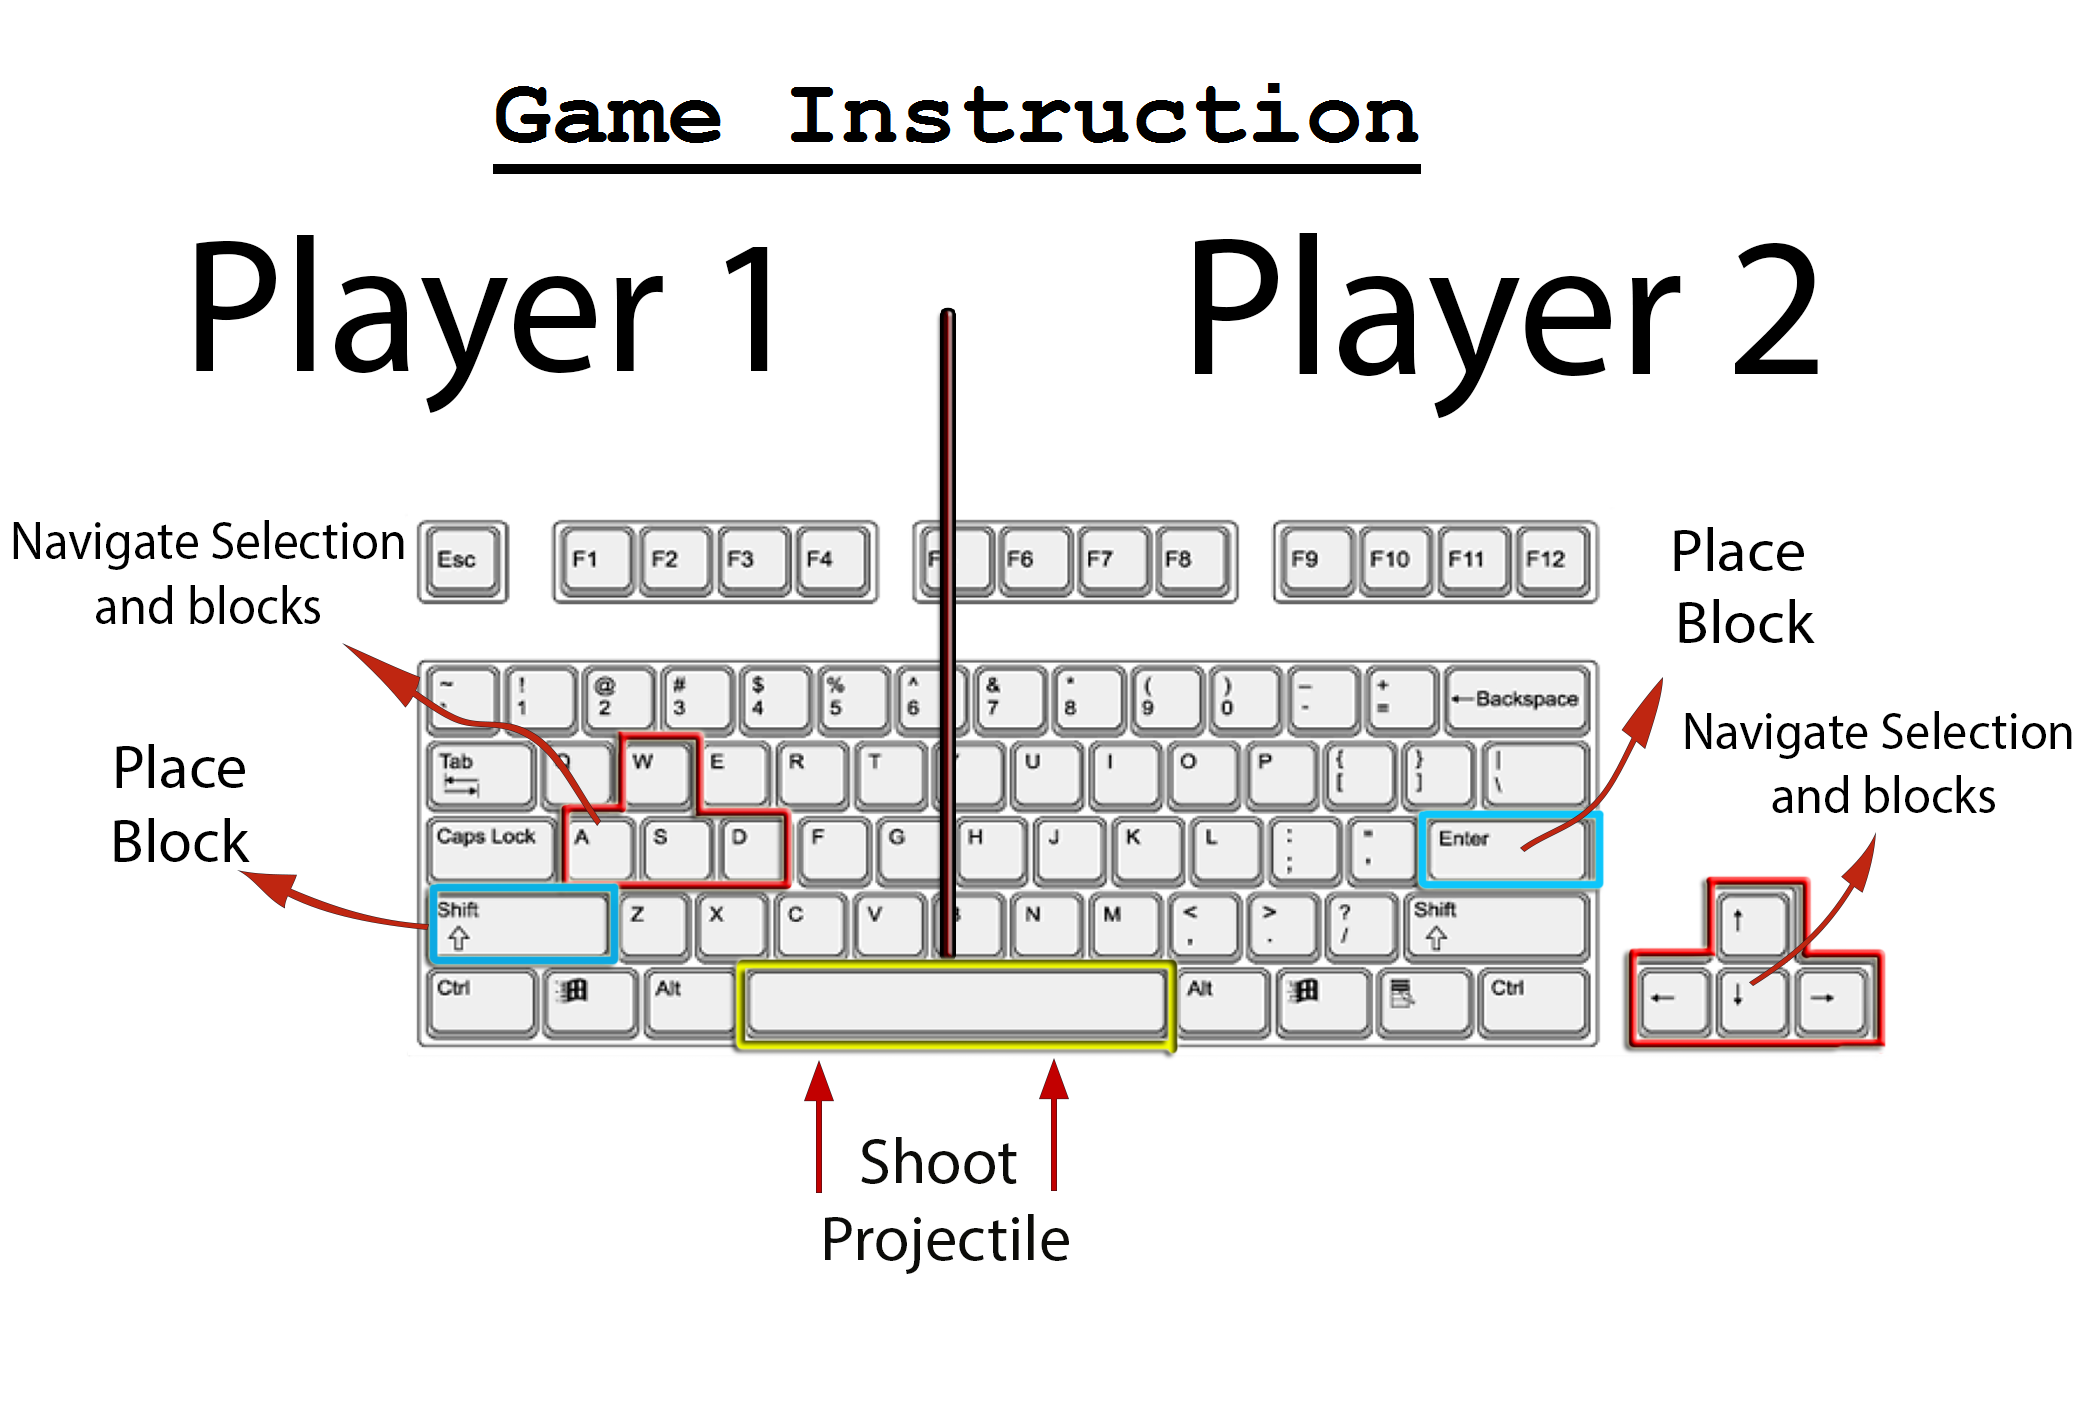
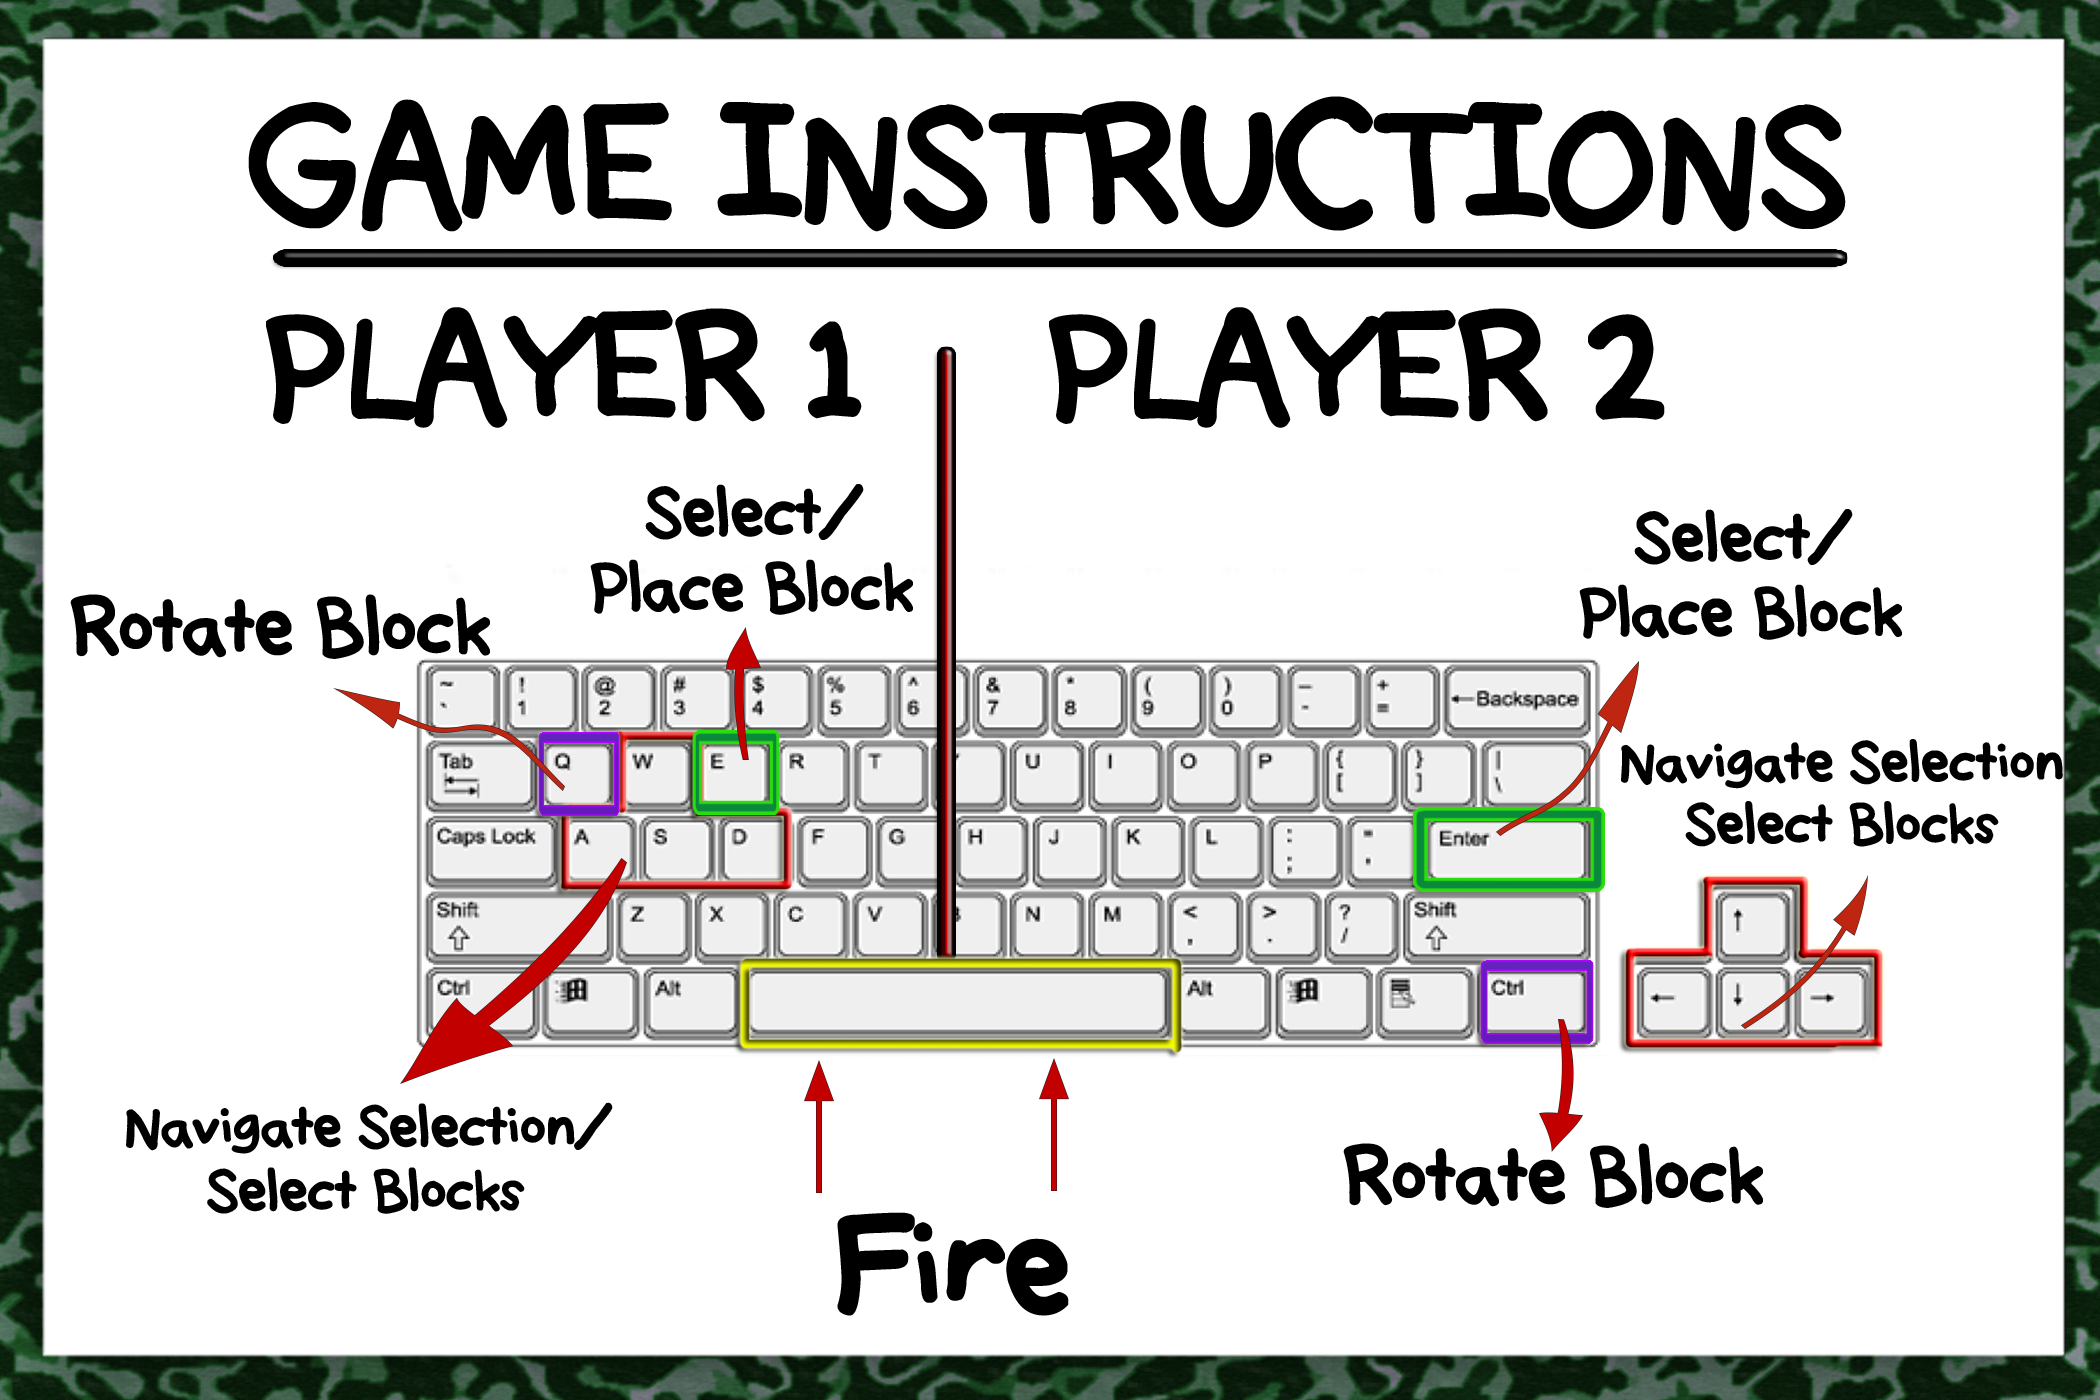
new instructions, crash fix

diff --git a/core/src/com/totemdefender/menu/PostGameMenu.java b/core/src/com/totemdefender/menu/PostGameMenu.java
@@ -56,7 +56,6 @@ public class PostGameMenu extends Container{
 			@Override
 			public boolean onClick(){
 				postGameState.setShouldExit(true);
-				game.setWinner(null);
 				return true;
 			}
 		};
